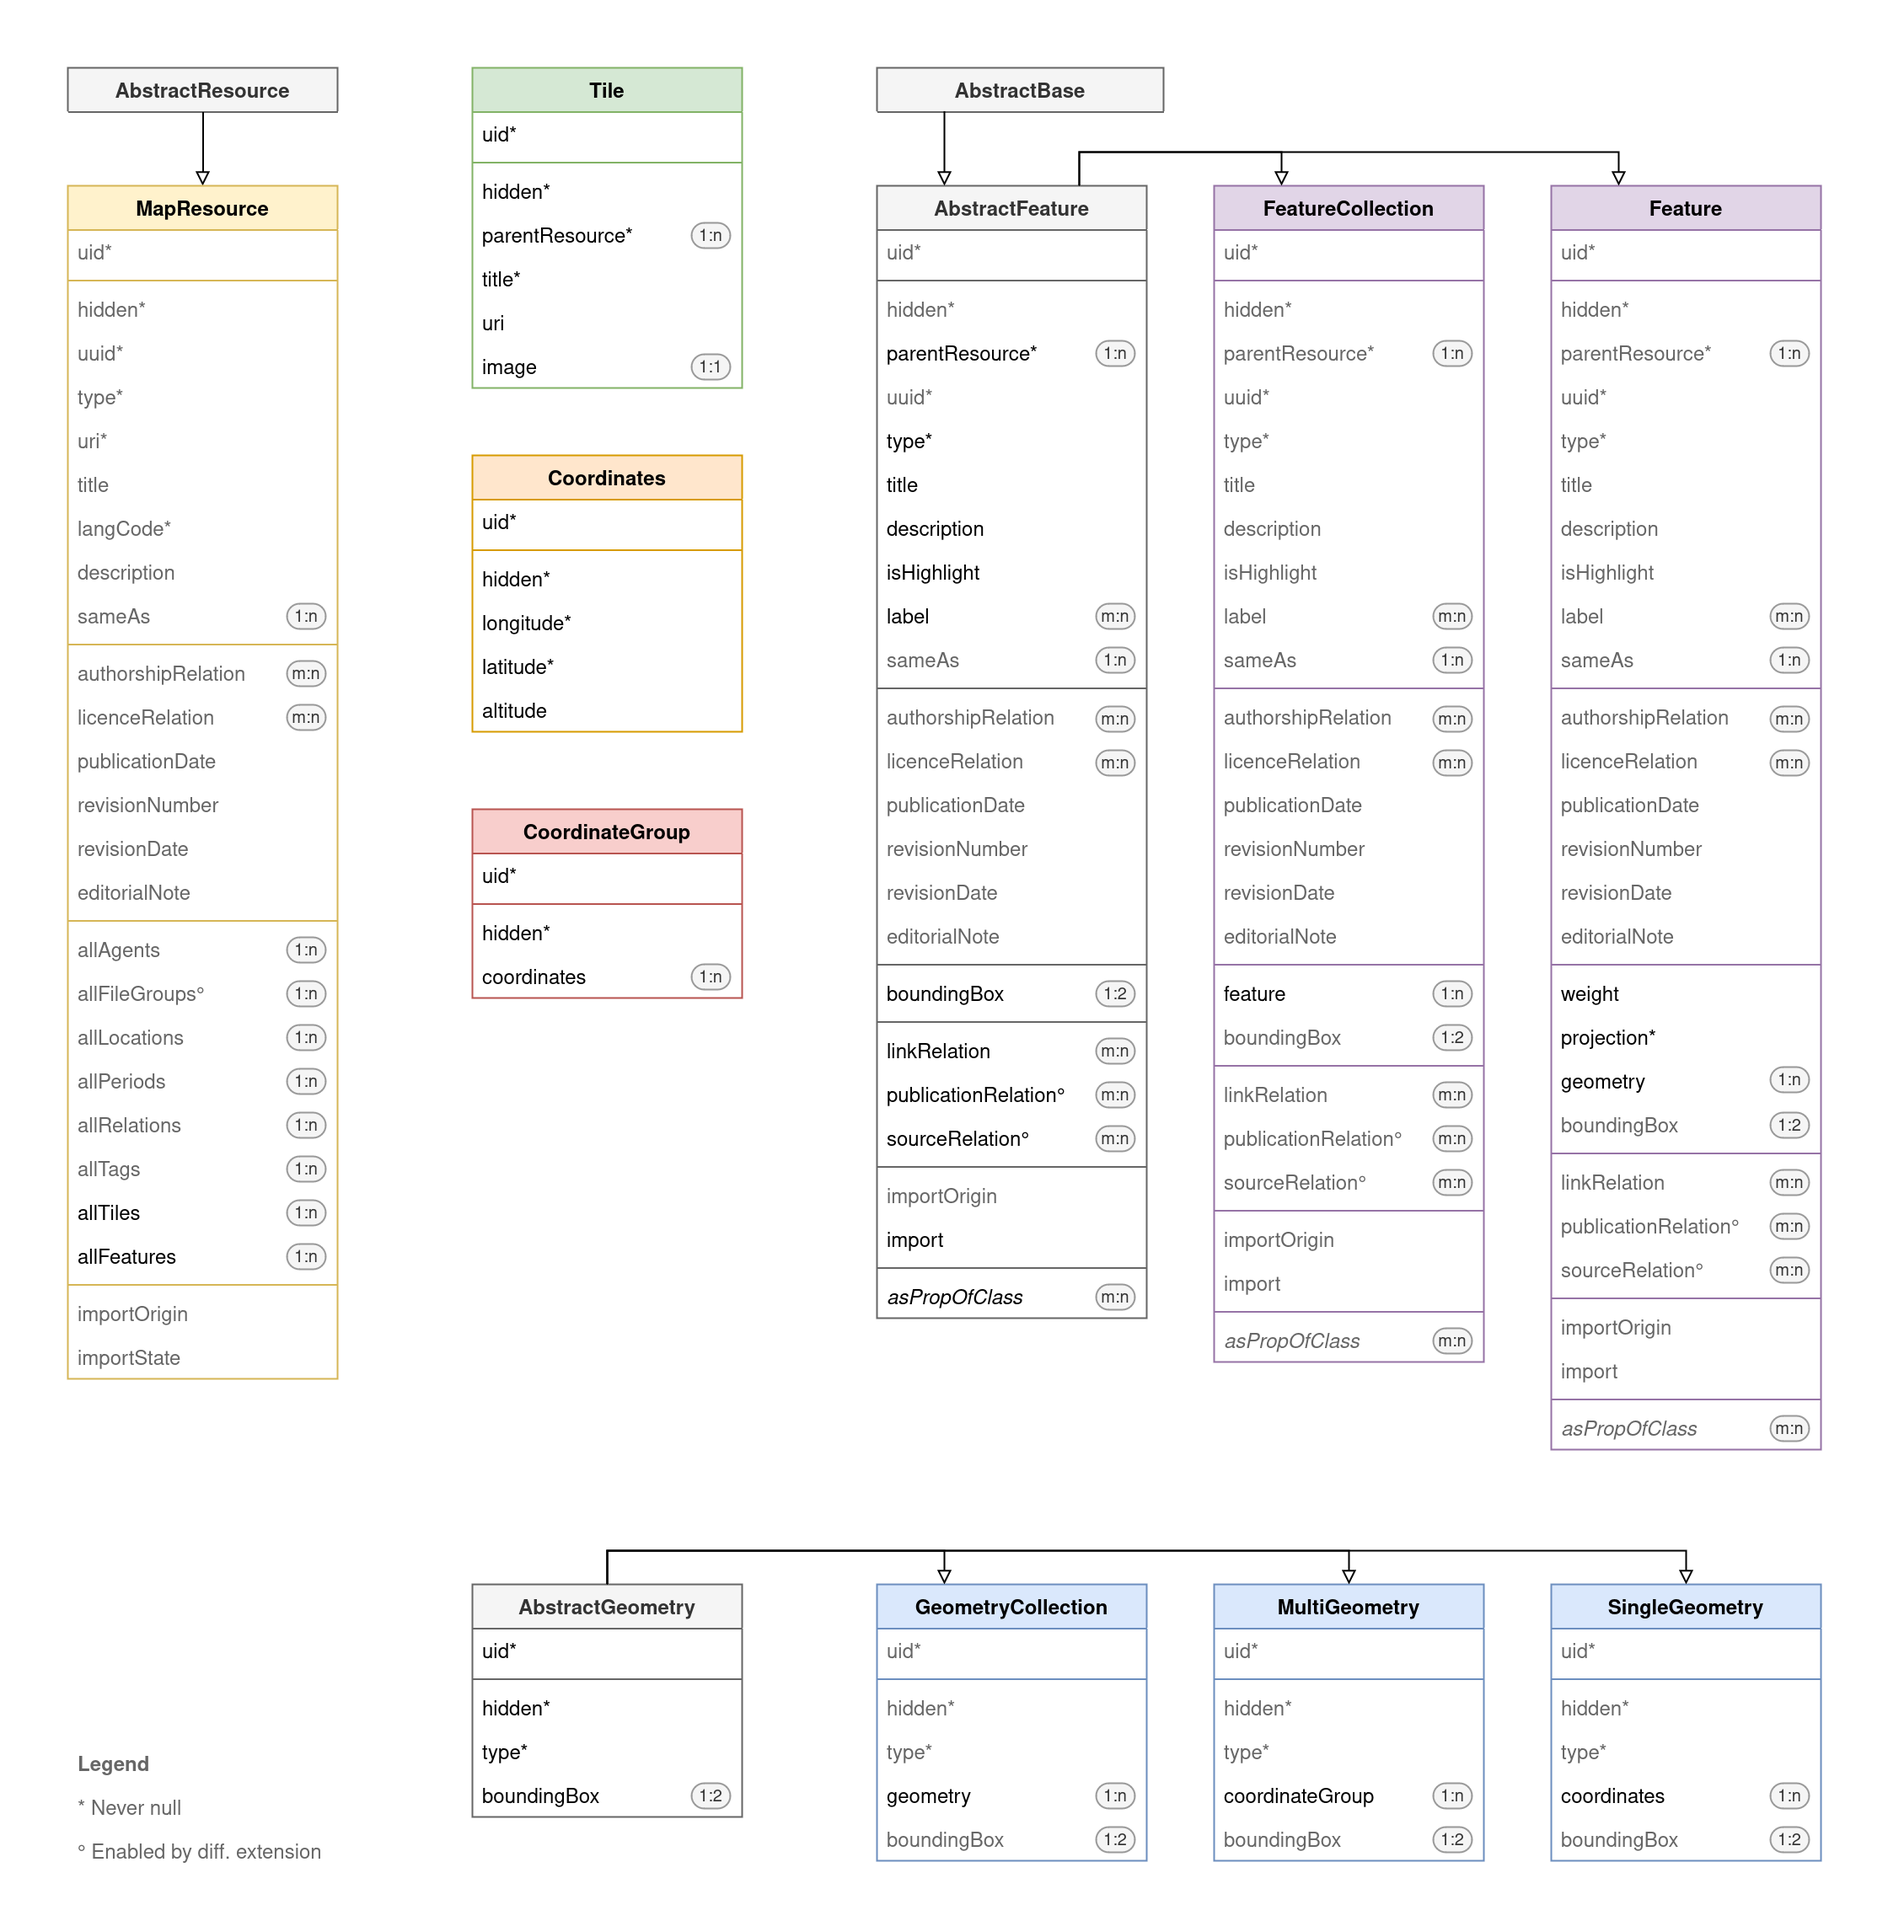
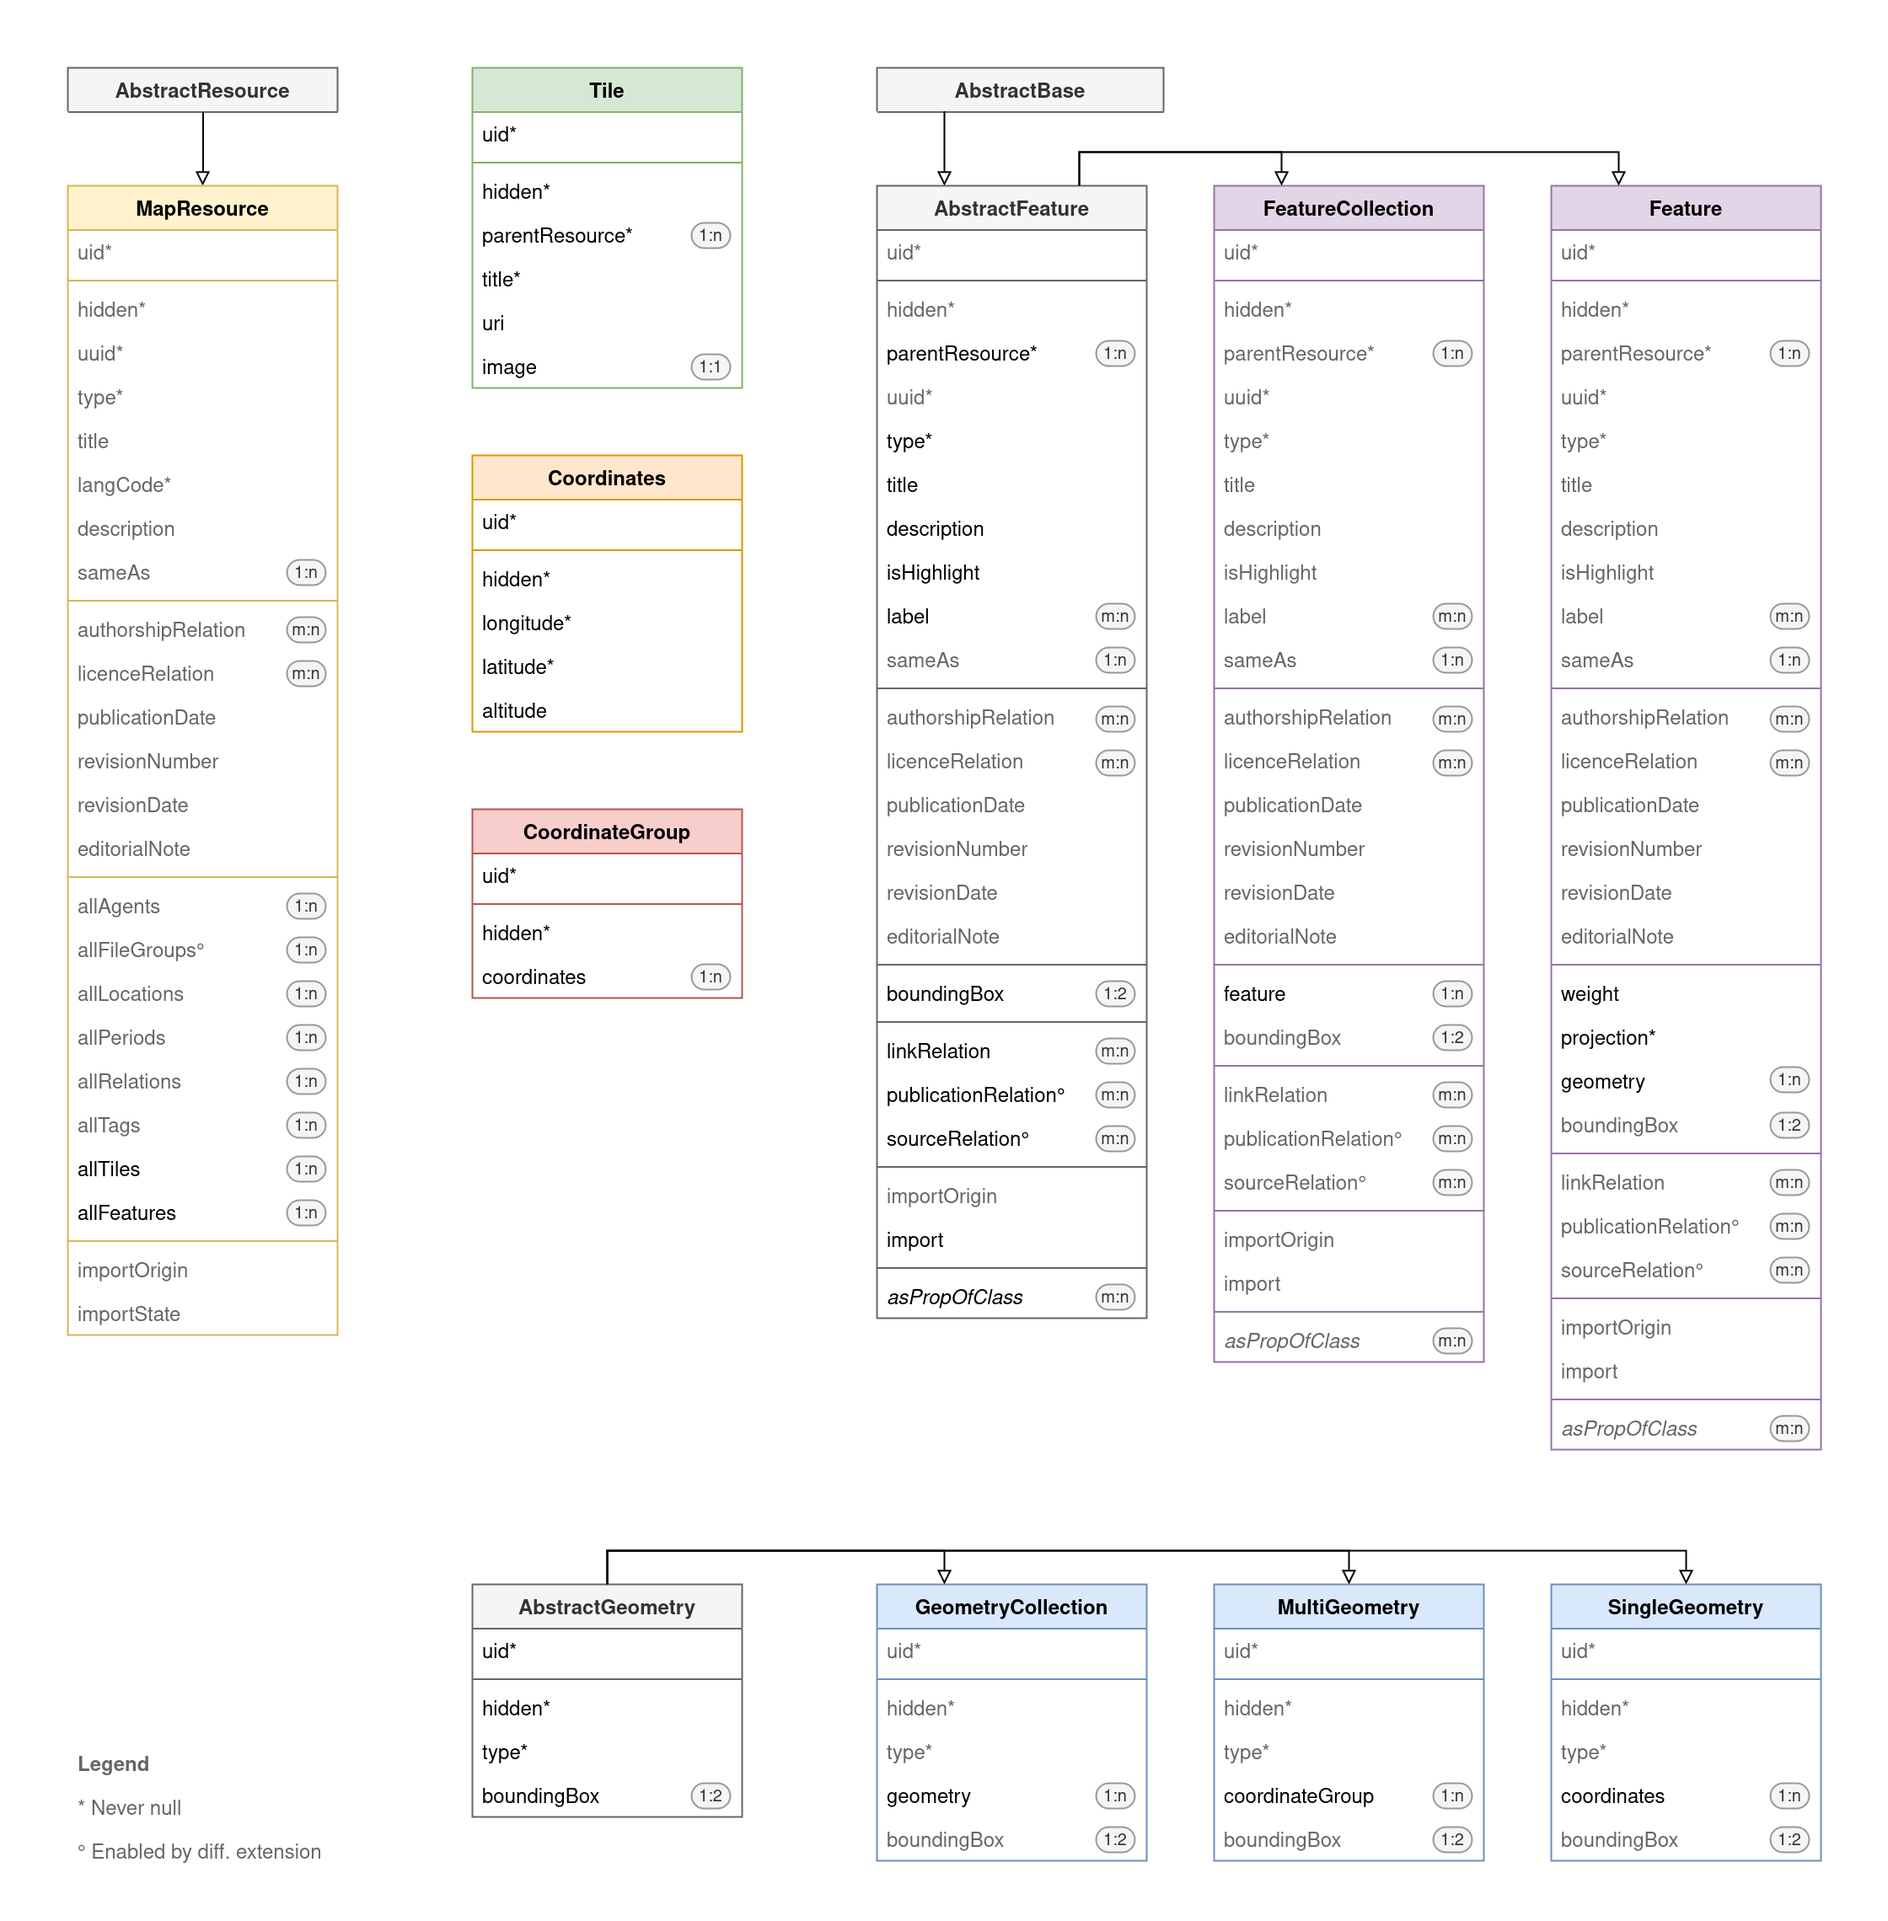
Remove uri property from resources

Changed region(s): [[0.0312, 0.2491, 0.1875, 0.4048], [0.0312, 0.436, 0.0938, 0.5917], [0.0312, 0.6228, 0.0938, 0.7162]]

diff --git a/Configuration/TCA/Overrides/tx_chfbase_domain_model_resource.php b/Configuration/TCA/Overrides/tx_chfbase_domain_model_resource.php
@@ -107,7 +107,7 @@ defined('TYPO3') or die();
 // Add type 'mapResource' and its 'showitem' list
 \TYPO3\CMS\Core\Utility\ExtensionManagementUtility::addToAllTCAtypes(
    'tx_chfbase_domain_model_resource',
-   'hiddenUuid,typeUri,titleLangCode,description,sameAs,
+   'hidden,uuidType,titleLangCode,description,sameAs,
    --div--;LLL:EXT:chf_base/Resources/Private/Language/locallang.xlf:object.generic.editorial,authorshipRelation,licenceRelation,publicationDateRevisionNumberRevisionDate,editorialNote,
    --div--;LLL:EXT:chf_base/Resources/Private/Language/locallang.xlf:object.generic.content,allAgents,allFileGroups,allLocations,allPeriods,allRelations,allTags,allTiles,allFeatures,
    --div--;LLL:EXT:chf_base/Resources/Private/Language/locallang.xlf:object.generic.import,importOrigin,importState,
